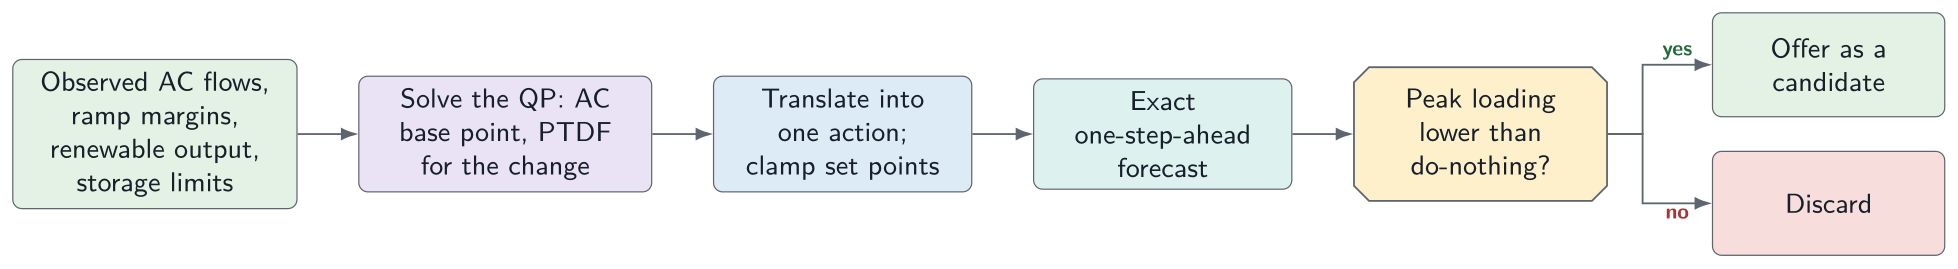
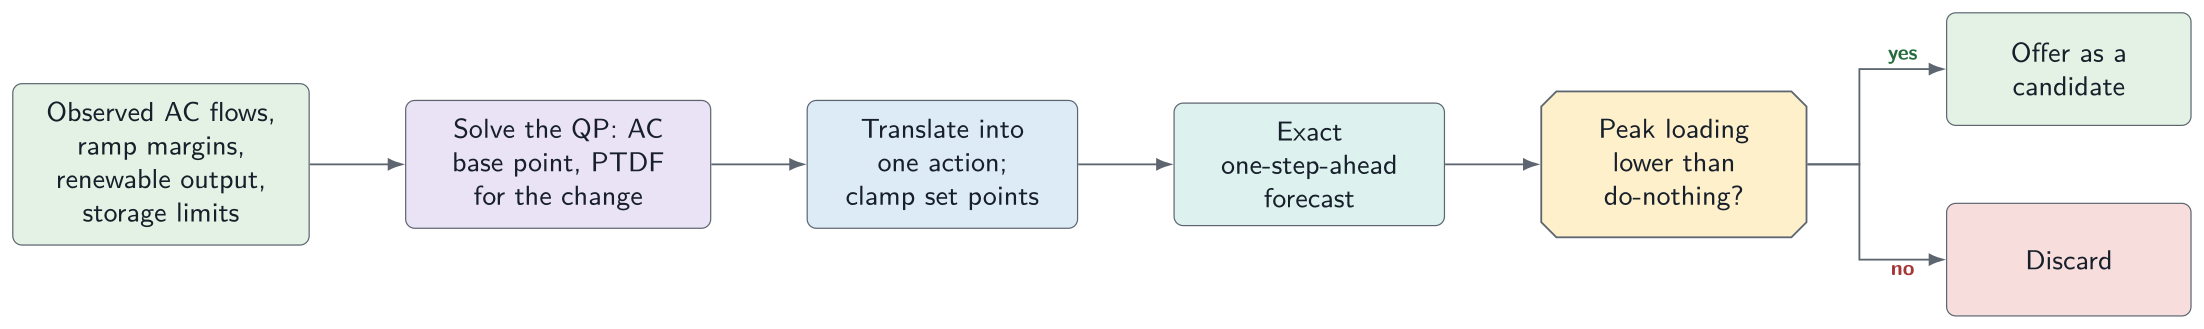
More details on how the agent works + better images

Changed region(s): [[0.0, 0.0297, 0.9969, 0.803], [0.8412, 0.5353, 0.9969, 0.9814]]

diff --git a/docs/figures/src/danger_search.tex b/docs/figures/src/danger_search.tex
@@ -1,25 +1,25 @@
 \input{style}
 \begin{document}
-\begin{tikzpicture}[node distance=4mm and 7mm]
+\begin{tikzpicture}[node distance=7mm and 11mm]
 \node[proc=2.4cm] (l) {Congested lines\\\scriptsize $\rho>0.99$, else the three most loaded};
-\node[opt=3.3cm, right=10mm of l, yshift=12mm] (t) {Topology pool, per region\\\scriptsize bus-bar changes near congestion and at hubs; screened line openings};
-\node[opt=3.3cm, right=10mm of l, yshift=-12mm] (c) {Continuous pool\\\scriptsize storage, redispatch, curtailment, DC OPF, AC-anchored dispatch};
-\node[sim=2.7cm, right=10mm of t, yshift=-12mm] (p) {Score all on $J_H$; keep best per region and best continuous};
+\node[opt=3.3cm, right=14mm of l, yshift=15mm] (t) {Topology pool, per region\\\scriptsize bus-bar changes near congestion and at hubs; screened line openings};
+\node[opt=3.3cm, right=14mm of l, yshift=-15mm] (c) {Continuous pool\\\scriptsize storage, redispatch, curtailment, DC OPF, AC-anchored dispatch};
+\node[sim=2.7cm, right=14mm of t, yshift=-15mm] (p) {Score all on $J_H$; keep best per region and best continuous};
 \node[ask=2.6cm, right=of p] (d) {Any candidate better than do-nothing?};
 \node[rule=2.9cm, right=of d] (g) {Greedy stack: add each unused region's best topology while $J_H$ strictly improves};
 \node[ask=3.0cm, right=of g] (x) {Best continuous touches no line or substation, and lowers $J_H$ when added?};
-\node[out=2.3cm, right=12mm of x, yshift=8mm] (y) {Stack + continuous};
-\node[out=2.3cm, right=12mm of x, yshift=-8mm] (z) {Stack alone};
-\node[bad=2.6cm, below=6mm of d] (lr) {Last resort if $F\ge1.20$, else do-nothing};
-\draw[arr] (l.east) -- ++(4mm,0) |- (t.west);
-\draw[arr] (l.east) -- ++(4mm,0) |- (c.west);
-\draw[arr] (t.east) -- ++(4mm,0) |- (p.west);
-\draw[arr] (c.east) -- ++(4mm,0) |- (p.west);
+\node[out=2.3cm, right=16mm of x, yshift=11mm] (y) {Stack + continuous};
+\node[out=2.3cm, right=16mm of x, yshift=-11mm] (z) {Stack alone};
+\node[bad=2.6cm, below=9mm of d] (lr) {Last resort if $F\ge1.20$, else do-nothing};
+\draw[arr] (l.east) -- ++(6mm,0) |- (t.west);
+\draw[arr] (l.east) -- ++(6mm,0) |- (c.west);
+\draw[arr] (t.east) -- ++(6mm,0) |- (p.west);
+\draw[arr] (c.east) -- ++(6mm,0) |- (p.west);
 \draw[arr] (p)--(d);
 \draw[arr] (d)--node[ylab,above]{yes}(g);
 \draw[arr] (d)--node[nlab,right]{no}(lr);
 \draw[arr] (g)--(x);
-\draw[arr] (x.east) -- ++(4mm,0) |- node[ylab,above,pos=0.75]{yes} (y.west);
-\draw[arr] (x.east) -- ++(4mm,0) |- node[nlab,below,pos=0.75]{no} (z.west);
+\draw[arr] (x.east) -- ++(6mm,0) |- node[ylab,above,pos=0.75]{yes} (y.west);
+\draw[arr] (x.east) -- ++(6mm,0) |- node[nlab,below,pos=0.75]{no} (z.west);
 \end{tikzpicture}
 \end{document}

diff --git a/docs/figures/src/withholding_cycle.tex b/docs/figures/src/withholding_cycle.tex
@@ -1,24 +1,24 @@
 \input{style}
 \begin{document}
-\begin{tikzpicture}[node distance=4mm and 7mm]
+\begin{tikzpicture}[node distance=7mm and 11mm]
 \node[out=1.8cm] (s) {Each step};
 \node[ask=3.3cm, right=of s] (a) {$\rho_{\max}\le0.95$, and a withheld line in service and off cooldown?};
 \node[rule, right=of a] (o) {Open every such line in one action};
 \node[ask=3.5cm, right=of o] (r) {Relief without line-status change, and opening + relief no worse on $J_H$?};
-\node[out=2.6cm, right=12mm of r, yshift=8mm] (p) {Return opening + relief};
-\node[out=2.6cm, right=12mm of r, yshift=-8mm] (b) {Return opening alone};
-\node[proc, below=9mm of a] (n) {Reactive controller};
+\node[out=2.6cm, right=16mm of r, yshift=11mm] (p) {Return opening + relief};
+\node[out=2.6cm, right=16mm of r, yshift=-11mm] (b) {Return opening alone};
+\node[proc, below=19mm of a] (n) {Reactive controller};
 \node[ask=3.5cm, right=of n] (q) {Would a reconnection bring a region fully back in service?};
-\node[out=3.0cm, right=12mm of q, yshift=8mm] (k) {Yes, and $\rho_{\max}\le1.0$: reconnection withheld};
-\node[sim=3.0cm, right=12mm of q, yshift=-8mm] (f) {Otherwise: reconnect if the forecast rates it no worse};
+\node[out=3.0cm, right=16mm of q, yshift=11mm] (k) {Yes, and $\rho_{\max}\le1.0$: reconnection withheld};
+\node[sim=3.0cm, right=16mm of q, yshift=-11mm] (f) {Otherwise: reconnect if the forecast rates it no worse};
 \draw[arr] (s)--(a);
 \draw[arr] (a)--node[ylab,above]{yes}(o);
 \draw[arr] (o)--(r);
-\draw[arr] (r.east) -- ++(4mm,0) |- node[ylab,above,pos=0.75]{yes} (p.west);
-\draw[arr] (r.east) -- ++(4mm,0) |- node[nlab,below,pos=0.75]{no} (b.west);
+\draw[arr] (r.east) -- ++(6mm,0) |- node[ylab,above,pos=0.75]{yes} (p.west);
+\draw[arr] (r.east) -- ++(6mm,0) |- node[nlab,below,pos=0.75]{no} (b.west);
 \draw[arr] (a)--node[nlab,right]{no}(n);
 \draw[arr] (n)--(q);
-\draw[arr] (q.east) -- ++(4mm,0) |- (k.west);
-\draw[arr] (q.east) -- ++(4mm,0) |- (f.west);
+\draw[arr] (q.east) -- ++(6mm,0) |- (k.west);
+\draw[arr] (q.east) -- ++(6mm,0) |- (f.west);
 \end{tikzpicture}
 \end{document}

diff --git a/docs/figures/src/outage_lookahead.tex b/docs/figures/src/outage_lookahead.tex
@@ -1,20 +1,20 @@
 \input{style}
 \begin{document}
-\begin{tikzpicture}[node distance=4mm and 7mm]
+\begin{tikzpicture}[node distance=7mm and 11mm]
 \node[out=2.7cm] (d) {Nearest line with a scheduled outage within 12 steps};
 \node[sim, right=of d] (s) {Simulate the outage from the current state};
 \node[ask=2.8cm, right=of s] (q) {Survives with $\rho_{\max}<1.30$?};
-\node[out=2.7cm, above=6mm of q] (h) {Mark the line as handled; no action};
+\node[out=2.7cm, above=9mm of q] (h) {Mark the line as handled; no action};
 \node[ask=2.4cm, right=of q] (r) {Recorded postures for this line?};
-\node[rule=3.2cm, right=12mm of r, yshift=8.5mm] (t) {Best-recorded posture not forecast as fatal};
-\node[opt=3.2cm, right=12mm of r, yshift=-8.5mm] (g) {Generated bus-bar and dispatch candidates; best on $J_H$};
-\node[out=2.0cm, right=12mm of t, yshift=-8.5mm] (a) {Apply};
+\node[rule=3.2cm, right=16mm of r, yshift=11.5mm] (t) {Best-recorded posture not forecast as fatal};
+\node[opt=3.2cm, right=16mm of r, yshift=-11.5mm] (g) {Generated bus-bar and dispatch candidates; best on $J_H$};
+\node[out=2.0cm, right=16mm of t, yshift=-11.5mm] (a) {Apply};
 \draw[arr] (d)--(s); \draw[arr] (s)--(q);
 \draw[arr] (q)--node[ylab,right]{yes}(h);
 \draw[arr] (q)--node[nlab,above]{no}(r);
-\draw[arr] (r.east) -- ++(4mm,0) |- node[ylab,above,pos=0.75]{yes} (t.west);
-\draw[arr] (r.east) -- ++(4mm,0) |- node[nlab,below,pos=0.75]{no} (g.west);
-\draw[arr] (t.east) -- ++(4mm,0) |- (a.west);
-\draw[arr] (g.east) -- ++(4mm,0) |- (a.west);
+\draw[arr] (r.east) -- ++(6mm,0) |- node[ylab,above,pos=0.75]{yes} (t.west);
+\draw[arr] (r.east) -- ++(6mm,0) |- node[nlab,below,pos=0.75]{no} (g.west);
+\draw[arr] (t.east) -- ++(6mm,0) |- (a.west);
+\draw[arr] (g.east) -- ++(6mm,0) |- (a.west);
 \end{tikzpicture}
 \end{document}

diff --git a/docs/figures/src/evaluation.tex b/docs/figures/src/evaluation.tex
@@ -1,16 +1,16 @@
 \input{style}
 \begin{document}
-\begin{tikzpicture}[node distance=4mm and 7mm]
+\begin{tikzpicture}[node distance=7mm and 11mm]
 \node[proc=2.2cm] (a) {Candidate action $a$};
 \node[sim, right=of a] (s1) {Simulate $a$ for one step};
 \node[sim, right=of s1] (s2) {Simulate do-nothing for $H-1$ steps ($H=2$)};
-\node[rule=4.6cm, right=14mm of s2, yshift=8mm] (f) {$F_H$: worst $\rho_{\max}$ over the horizon\\\scriptsize clearance tests};
-\node[opt=4.6cm, right=14mm of s2, yshift=-8mm] (j) {$J_H$: worst $\Psi$ + curtailment + redispatch cost\\\scriptsize ranking and acceptance of candidates};
-\node[bad=2.4cm, below=5mm of s1] (d) {Predicted end of episode: $F_H=J_H=+\infty$};
+\node[rule=4.6cm, right=18mm of s2, yshift=11mm] (f) {$F_H$: worst $\rho_{\max}$ over the horizon\\\scriptsize clearance tests};
+\node[opt=4.6cm, right=18mm of s2, yshift=-11mm] (j) {$J_H$: worst $\Psi$ + curtailment + redispatch cost\\\scriptsize ranking and acceptance of candidates};
+\node[bad=2.4cm, below=8mm of s1] (d) {Predicted end of episode: $F_H=J_H=+\infty$};
 \draw[arr] (a)--(s1);
 \draw[arr] (s1)--(s2);
-\draw[arr] (s2.east) -- ++(5mm,0) |- (f.west);
-\draw[arr] (s2.east) -- ++(5mm,0) |- (j.west);
+\draw[arr] (s2.east) -- ++(7mm,0) |- (f.west);
+\draw[arr] (s2.east) -- ++(7mm,0) |- (j.west);
 \draw[darr] (s1)--(d);
 \draw[darr] (s2.south) |- (d.east);
 \end{tikzpicture}

diff --git a/docs/figures/src/revalidation.tex b/docs/figures/src/revalidation.tex
@@ -1,14 +1,14 @@
 \input{style}
 \begin{document}
-\begin{tikzpicture}[node distance=4mm and 7mm]
+\begin{tikzpicture}[node distance=7mm and 11mm]
 \node[out=2.9cm] (g) {Training scenarios and time grant\\\scriptsize capped at 3,600 s; 15\% kept in reserve};
 \node[proc, right=of g] (n) {Choose $n$ scenarios both candidates can be scored on};
 \node[sim=3.4cm, right=of n] (s) {Score default and challenger on the same $n$ scenarios\\\scriptsize $0.8\cdot$operations $+\,0.2\cdot$low-carbon};
 \node[ask=3.2cm, right=of s] (d) {Mean paired difference $>z\cdot$SE?\\\scriptsize Bonferroni, $\alpha=0.05$};
-\node[out=2.8cm, right=12mm of d, yshift=8mm] (w) {Persist the challenger};
-\node[rule=2.8cm, right=12mm of d, yshift=-8mm] (k) {Keep the default\\\scriptsize also on timeout or error};
+\node[out=2.8cm, right=16mm of d, yshift=11mm] (w) {Persist the challenger};
+\node[rule=2.8cm, right=16mm of d, yshift=-11mm] (k) {Keep the default\\\scriptsize also on timeout or error};
 \draw[arr] (g)--(n); \draw[arr] (n)--(s); \draw[arr] (s)--(d);
-\draw[arr] (d.east) -- ++(4mm,0) |- node[ylab,above,pos=0.75]{yes} (w.west);
-\draw[arr] (d.east) -- ++(4mm,0) |- node[nlab,below,pos=0.75]{no} (k.west);
+\draw[arr] (d.east) -- ++(6mm,0) |- node[ylab,above,pos=0.75]{yes} (w.west);
+\draw[arr] (d.east) -- ++(6mm,0) |- node[nlab,below,pos=0.75]{no} (k.west);
 \end{tikzpicture}
 \end{document}

diff --git a/docs/figures/src/withholding_rule.tex b/docs/figures/src/withholding_rule.tex
@@ -1,14 +1,14 @@
 \input{style}
 \begin{document}
-\begin{tikzpicture}[node distance=4mm and 7mm]
+\begin{tikzpicture}[node distance=7mm and 11mm]
 \node[proc] (t) {An attack falls due in region $j$};
 \node[ask=3.0cm, right=of t] (q) {Every attackable line of region $j$ in service?};
-\node[bad=3.3cm, right=12mm of q, yshift=8.5mm] (x) {Attack proceeds: a loaded line of the region is disconnected};
-\node[out=3.3cm, right=12mm of q, yshift=-8.5mm] (y) {Attempt canceled and consumed, not rescheduled};
-\node[rule=3.0cm, below=7mm of q] (k) {Agent keeps one line per region out of service};
+\node[bad=3.3cm, right=16mm of q, yshift=11.5mm] (x) {Attack proceeds: a loaded line of the region is disconnected};
+\node[out=3.3cm, right=16mm of q, yshift=-11.5mm] (y) {Attempt canceled and consumed, not rescheduled};
+\node[rule=3.0cm, below=10mm of q] (k) {Agent keeps one line per region out of service};
 \draw[arr] (t)--(q);
-\draw[arr] (q.east) -- ++(4mm,0) |- node[ylab,above,pos=0.75]{yes} (x.west);
-\draw[arr] (q.east) -- ++(4mm,0) |- node[nlab,below,pos=0.75]{no} (y.west);
+\draw[arr] (q.east) -- ++(6mm,0) |- node[ylab,above,pos=0.75]{yes} (x.west);
+\draw[arr] (q.east) -- ++(6mm,0) |- node[nlab,below,pos=0.75]{no} (y.west);
 \draw[darr] (k)--(q);
 \end{tikzpicture}
 \end{document}

diff --git a/docs/figures/src/ac_dispatch.tex b/docs/figures/src/ac_dispatch.tex
@@ -1,15 +1,15 @@
 \input{style}
 \begin{document}
-\begin{tikzpicture}[node distance=4mm and 7mm]
+\begin{tikzpicture}[node distance=7mm and 11mm]
 \node[out=3.0cm] (r) {Observed AC flows, ramp margins, renewable output, storage limits};
 \node[opt=3.1cm, right=of r] (q) {Solve the QP: AC base point, PTDF for the change};
 \node[proc, right=of q] (t) {Translate into one action; clamp set points};
 \node[sim, right=of t] (s) {Exact one-step-ahead forecast};
 \node[ask=2.5cm, right=of s] (k) {Peak loading lower than do-nothing?};
-\node[out=2.4cm, right=12mm of k, yshift=8mm] (y) {Offer as a candidate};
-\node[bad=2.4cm, right=12mm of k, yshift=-8mm] (n) {Discard};
+\node[out=2.4cm, right=16mm of k, yshift=11mm] (y) {Offer as a candidate};
+\node[bad=2.4cm, right=16mm of k, yshift=-11mm] (n) {Discard};
 \draw[arr] (r)--(q); \draw[arr] (q)--(t); \draw[arr] (t)--(s); \draw[arr] (s)--(k);
-\draw[arr] (k.east) -- ++(4mm,0) |- node[ylab,above,pos=0.75]{yes} (y.west);
-\draw[arr] (k.east) -- ++(4mm,0) |- node[nlab,below,pos=0.75]{no} (n.west);
+\draw[arr] (k.east) -- ++(6mm,0) |- node[ylab,above,pos=0.75]{yes} (y.west);
+\draw[arr] (k.east) -- ++(6mm,0) |- node[nlab,below,pos=0.75]{no} (n.west);
 \end{tikzpicture}
 \end{document}

diff --git a/docs/figures/src/decision_cycle.tex b/docs/figures/src/decision_cycle.tex
@@ -1,15 +1,15 @@
 \input{style}
 \begin{document}
-\begin{tikzpicture}[node distance=4mm and 6mm]
+\begin{tikzpicture}[node distance=7mm and 11mm]
 \node[out=2.0cm] (o) {Observation};
 \node[ask, right=of o] (m) {Scheduled outage within 12 steps, and severe?};
 \node[ask, right=of m] (w) {$\rho_{\max}\le0.95$ and a withheld line back in service?};
 \node[proc=3.1cm, right=of w] (c) {Reactive controller\\[1pt]\scriptsize comfortable / preventive / danger regime};
 \node[ask, right=of c] (v) {Overload running and action fatal within 8 steps?};
 \node[out=2.0cm, right=of v] (a) {Apply the action};
-\node[out, below=9mm of m] (ma) {Pre-position against the outage};
-\node[out, below=9mm of w] (wa) {Reopen withheld lines, with relief if no worse};
-\node[sim, below=9mm of v] (va) {Longest-surviving alternative, if any};
+\node[out, below=12mm of m] (ma) {Pre-position against the outage};
+\node[out, below=12mm of w] (wa) {Reopen withheld lines, with relief if no worse};
+\node[sim, below=12mm of v] (va) {Longest-surviving alternative, if any};
 \draw[arr] (o)--(m);
 \draw[arr] (m)--node[nlab,above]{no}(w);
 \draw[arr] (w)--node[nlab,above]{no}(c);

diff --git a/docs/figures/src/style.tex b/docs/figures/src/style.tex
@@ -43,8 +43,8 @@
 
 \tikzset{
   every picture/.style={color=ink, font=\small},
-  box/.style={draw=edge, rounded corners=3pt, align=center, inner sep=4pt,
-              text width=#1, minimum height=12mm, text=ink},
+  box/.style={draw=edge, rounded corners=3pt, align=center, inner sep=6pt,
+              text width=#1, minimum height=13mm, text=ink},
   box/.default=2.7cm,
   proc/.style={box=#1, fill=blue},   proc/.default=2.7cm,
   sim/.style={box=#1, fill=teal},    sim/.default=2.7cm,

diff --git a/docs/figures/src/line_screen.tex b/docs/figures/src/line_screen.tex
@@ -1,6 +1,6 @@
 \input{style}
 \begin{document}
-\begin{tikzpicture}[node distance=4mm and 7mm]
+\begin{tikzpicture}[node distance=7mm and 11mm]
 \node[out] (a) {Lines in service};
 \node[rule=3.3cm, right=of a] (b) {Exclude lines on cooldown, withheld lines, and bridges};
 \node[opt=3.1cm, right=of b] (c) {$q_k$ for every remaining line in one matrix product};

diff --git a/docs/how_the_agent_works.md b/docs/how_the_agent_works.md
@@ -29,7 +29,7 @@ Three layers are consulted in a fixed order, and the first that produces an acti
 <p align="center">
 <picture>
   <source media="(prefers-color-scheme: dark)" srcset="figures/decision_cycle_dark.png">
-  <img alt="Order of precedence: scheduled-outage check, withholding, reactive controller, extended-horizon check." src="figures/decision_cycle_light.png" width="806">
+  <img alt="Order of precedence: scheduled-outage check, withholding, reactive controller, extended-horizon check." src="figures/decision_cycle_light.png" width="920">
 </picture>
 </p>
 
@@ -68,7 +68,7 @@ competes with survival. Lower $J_H$ is better.
 <p align="center">
 <picture>
   <source media="(prefers-color-scheme: dark)" srcset="figures/evaluation_dark.png">
-  <img alt="Evaluation of a candidate by a one-step simulation followed by do-nothing, giving F_H and J_H." src="figures/evaluation_light.png" width="641">
+  <img alt="Evaluation of a candidate by a one-step simulation followed by do-nothing, giving F_H and J_H." src="figures/evaluation_light.png" width="710">
 </picture>
 </p>
 
@@ -91,7 +91,7 @@ the network needs it:
 <p align="center">
 <picture>
   <source media="(prefers-color-scheme: dark)" srcset="figures/withholding_cycle_dark.png">
-  <img alt="Withholding: open the withheld lines when comfortable, add relief if no worse, and withhold reconnections while loading is within limits." src="figures/withholding_cycle_light.png" width="750">
+  <img alt="Withholding: open the withheld lines when comfortable, add relief if no worse, and withhold reconnections while loading is within limits." src="figures/withholding_cycle_light.png" width="840">
 </picture>
 </p>
 
@@ -161,7 +161,7 @@ observed voltage. All $q_k$ are obtained in one matrix product.
 <p align="center">
 <picture>
   <source media="(prefers-color-scheme: dark)" srcset="figures/line_screen_dark.png">
-  <img alt="Line-opening screen: exclusions, LODF estimate, at most three openings below the limit, then simulation." src="figures/line_screen_light.png" width="758">
+  <img alt="Line-opening screen: exclusions, LODF estimate, at most three openings below the limit, then simulation." src="figures/line_screen_light.png" width="848">
 </picture>
 </p>
 
@@ -204,7 +204,7 @@ forecast confirms a lower peak loading.
 <p align="center">
 <picture>
   <source media="(prefers-color-scheme: dark)" srcset="figures/ac_dispatch_dark.png">
-  <img alt="AC-anchored dispatch: solve the QP, translate into one action, and keep it only if the exact forecast lowers peak loading." src="figures/ac_dispatch_light.png" width="881">
+  <img alt="AC-anchored dispatch: solve the QP, translate into one action, and keep it only if the exact forecast lowers peak loading." src="figures/ac_dispatch_light.png" width="920">
 </picture>
 </p>
 
@@ -216,7 +216,7 @@ other look-ahead in the agent, is exact.
 <p align="center">
 <picture>
   <source media="(prefers-color-scheme: dark)" srcset="figures/outage_lookahead_dark.png">
-  <img alt="Scheduled-outage look-ahead: simulate the outage, then use a recorded or generated posture if it is severe." src="figures/outage_lookahead_light.png" width="882">
+  <img alt="Scheduled-outage look-ahead: simulate the outage, then use a recorded or generated posture if it is severe." src="figures/outage_lookahead_light.png" width="920">
 </picture>
 </p>
 
@@ -253,7 +253,7 @@ better. No model is trained.
 <p align="center">
 <picture>
   <source media="(prefers-color-scheme: dark)" srcset="figures/revalidation_dark.png">
-  <img alt="Revalidation in train(): score default and challenger on the same scenarios and accept only above a Bonferroni margin." src="figures/revalidation_light.png" width="787">
+  <img alt="Revalidation in train(): score default and challenger on the same scenarios and accept only above a Bonferroni margin." src="figures/revalidation_light.png" width="877">
 </picture>
 </p>
 

diff --git a/README.md b/README.md
@@ -36,7 +36,7 @@ The controller combines six components, each of which can be studied or reused o
 <p align="center">
 <picture>
   <source media="(prefers-color-scheme: dark)" srcset="docs/figures/withholding_rule_dark.png">
-  <img alt="Withholding: an attack proceeds only if every attackable line of its region is in service; the agent keeps one line per region out of service, so the attempt is canceled." src="docs/figures/withholding_rule_light.png" width="476">
+  <img alt="Withholding: an attack proceeds only if every attackable line of its region is in service; the agent keeps one line per region out of service, so the attempt is canceled." src="docs/figures/withholding_rule_light.png" width="523">
 </picture>
 </p>
 
@@ -49,7 +49,7 @@ The environment advances in five-minute steps. At each step, the agent proceeds 
 <p align="center">
 <picture>
   <source media="(prefers-color-scheme: dark)" srcset="docs/figures/decision_cycle_dark.png">
-  <img alt="Decision cycle: scheduled-outage check, withholding, reactive controller, and extended-horizon check, each able to return an action." src="docs/figures/decision_cycle_light.png" width="806">
+  <img alt="Decision cycle: scheduled-outage check, withholding, reactive controller, and extended-horizon check, each able to return an action." src="docs/figures/decision_cycle_light.png" width="920">
 </picture>
 </p>
 
